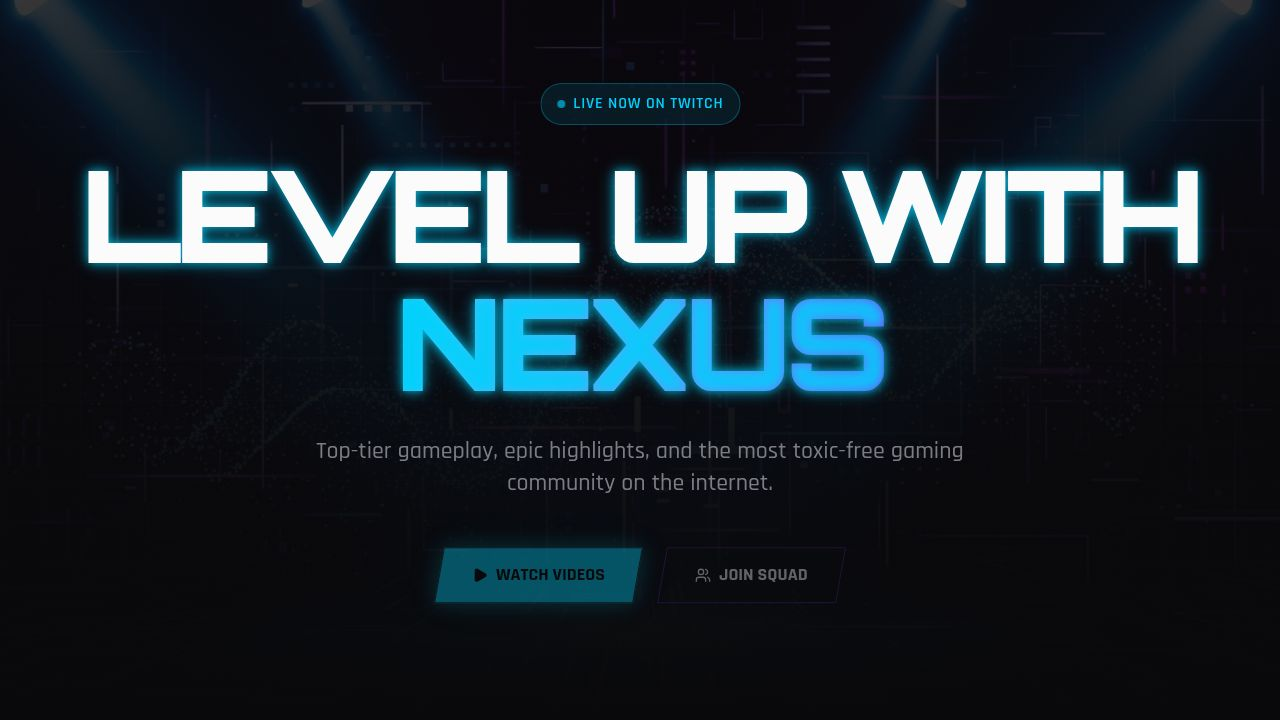
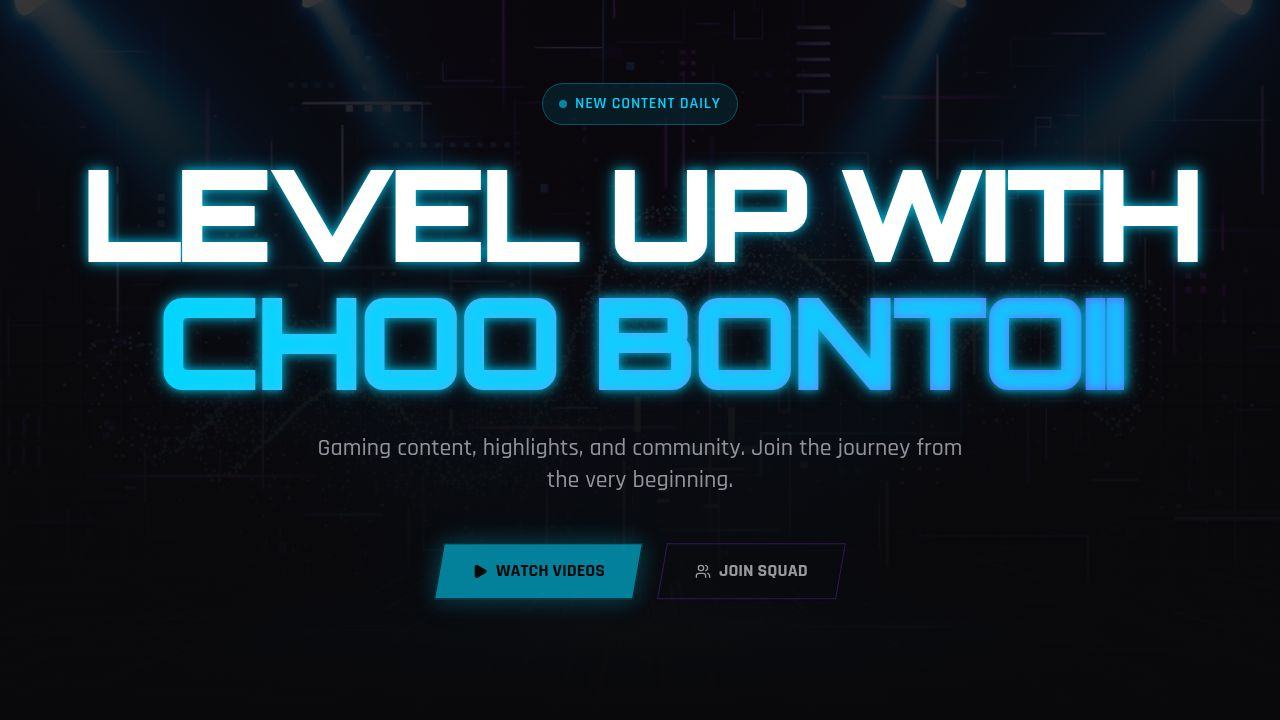
Update landing page branding and game sections
Removes the "Latest Clips" section and updates the "Featured Games" section with new titles and visuals, while also fixing a syntax error in `home.tsx`.

Replit-Commit-Author: Agent
Replit-Commit-Session-Id: 33a37b52-b9b2-4738-bafc-eb467f26567e
Replit-Commit-Checkpoint-Type: full_checkpoint
Replit-Commit-Event-Id: 31c0d175-55c4-43a1-a589-a1bf2510e330
Replit-Commit-Screenshot-Url: https://storage.googleapis.com/screenshot-production-us-central1/27531aba-d776-41cf-81f7-a0fe50182068/33a37b52-b9b2-4738-bafc-eb467f26567e/lmKrcZe
Replit-Helium-Checkpoint-Created: true

diff --git a/client/src/pages/home.tsx b/client/src/pages/home.tsx
@@ -240,54 +240,3 @@ export default function Home() {
     </div>
   );
 }
-
-      <section className="py-24 relative overflow-hidden">
-        <div className="absolute inset-0 bg-gradient-to-br from-primary/10 via-background to-secondary/10" />
-        <div className="container mx-auto px-4 md:px-6 relative z-10">
-          <div className="glass-card max-w-4xl mx-auto p-8 md:p-16 rounded-3xl border-primary/20 text-center relative overflow-hidden">
-            <div className="absolute top-0 right-0 -mr-20 -mt-20 w-64 h-64 bg-primary/20 rounded-full blur-3xl" />
-            <div className="absolute bottom-0 left-0 -ml-20 -mb-20 w-64 h-64 bg-secondary/20 rounded-full blur-3xl" />
-            
-            <h2 className="text-4xl md:text-5xl font-black font-display mb-6">
-              JOIN THE <span className="text-transparent bg-clip-text bg-gradient-to-r from-primary to-secondary">SQUAD</span>
-            </h2>
-            <p className="text-xl text-muted-foreground mb-10 max-w-2xl mx-auto">
-              Follow my Facebook page to see when I go live and join our growing community.
-            </p>
-            
-            <div className="flex flex-col items-center gap-6">
-              <Button size="lg" className="h-14 rounded-none bg-[#1877F2] hover:bg-[#1877F2]/90 text-white font-bold px-12 skew-x-[-10deg] shadow-[0_0_20px_rgba(24,119,242,0.4)] transition-all duration-300 hover:scale-105">
-                <div className="skew-x-[10deg] flex items-center gap-3 text-lg">
-                  <Facebook className="w-6 h-6 fill-current" /> FOLLOW ON FACEBOOK
-                </div>
-              </Button>
-            </div>
-          </div>
-        </div>
-      </section>
-
-      {/* FOOTER */}
-      <footer className="border-t border-white/10 py-12 bg-black/50 relative z-10">
-        <div className="container mx-auto px-4 md:px-6 flex flex-col md:flex-row justify-between items-center gap-6">
-          <div className="text-2xl font-black font-display tracking-tighter uppercase">
-            {GAMER_NAME}
-          </div>
-          
-          <div className="flex gap-4">
-            <a 
-              href="#" 
-              className="w-12 h-12 rounded-full border border-white/10 flex items-center justify-center text-muted-foreground hover:text-white transition-all duration-300 hover:bg-[#1877F2] hover:border-[#1877F2]"
-            >
-              <Facebook className="w-5 h-5 fill-current" />
-            </a>
-          </div>
-          
-          <p className="text-sm text-muted-foreground">
-            &copy; {new Date().getFullYear()} {GAMER_NAME}. All rights reserved.
-          </p>
-        </div>
-      </footer>
-    </div>
-  );
-}
-
